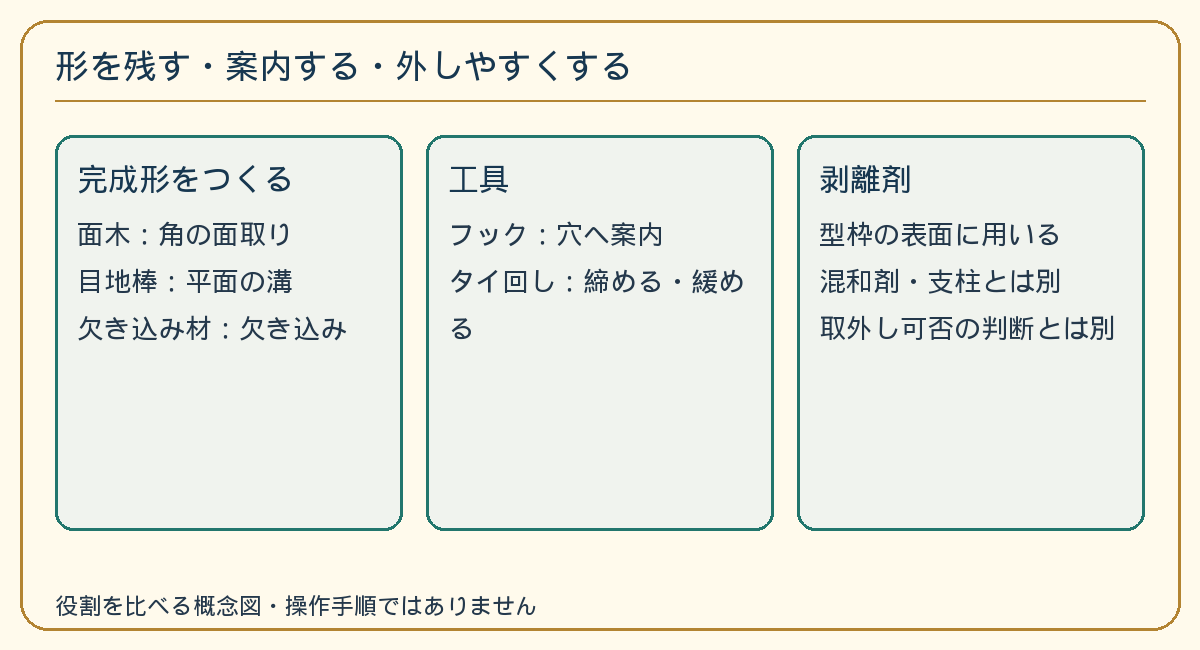
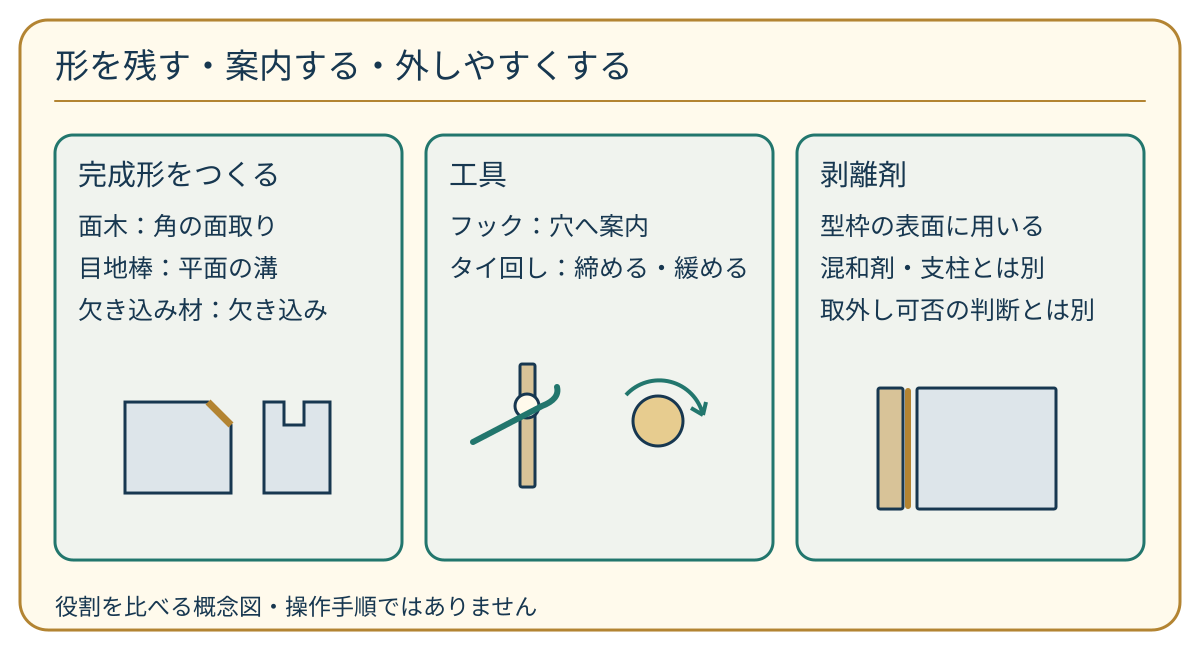
fix(kensetsu): illustrate formwork components and concrete pump roles

diff --git a/scripts/kensetsu-authoring/draw-royal-differential-group03.py b/scripts/kensetsu-authoring/draw-royal-differential-group03.py
@@ -1,0 +1,66 @@
+"""Original formwork/pump role geometry; not assembly, design or operating instructions."""
+from pathlib import Path
+helper = Path(__file__).with_name('draw-royal-differential-group01.py').read_text()
+exec(helper.split('# Clamp:')[0])
+OUT = ROOT / 'docs/ssw-workspace/kensetsu/royal-differential-20261107/group03'
+OUT.mkdir(parents=True, exist_ok=True)
+
+def cards(headings, rows):
+    body=''.join(rect(x,135,347,425) for x in [55,426,797])
+    for x,heading,lines in zip([78,449,820],headings,rows):
+        body+=text(x,185,heading,29)
+        for i,label in enumerate(lines):body+=text(x,235+i*42,label,25)
+    return body
+
+b=cards(['間隔・締付け','面と補強','荷重を受ける部分'],[
+ ['セパレーター：間隔','Pコン：端部','フォームタイ：締付け'],
+ ['せき板：接する面','桟木：補強・接続','パネル：板＋補強'],
+ ['端太角・トンボ端太','横向きに受ける','パイプサポート：支柱']])
+# Cross-section relationship: facing panels, spacing member, end parts/outside ties.
+b+=rect(143,385,18,118,'#BBA47B',NAVY,2)+rect(295,385,18,118,'#BBA47B',NAVY,2)
+b+=line(118,444,337,444,TEAL,7)
+b+='<path d="M161 431 L185 438 V450 L161 457 Z M295 431 L271 438 V450 L295 457 Z" fill="#E7CC8F" stroke="#B38432" stroke-width="3"/>'
+b+=line(127,421,127,467,GOLD,7)+line(327,421,327,467,GOLD,7)
+# An original oblique panel with reinforcement on its rear face.
+b+='<path d="M493 401 L650 382 L691 462 L534 484 Z" fill="#D8C398" stroke="#173750" stroke-width="3"/>'
+b+=line(524,408,557,468,GOLD,9)+line(573,402,606,461,GOLD,9)+line(621,395,654,454,GOLD,9)
+# Horizontal load receiving member and vertical support: relationship, no load sizing.
+b+=rect(864,390,216,22,'#BBA47B',NAVY,2)+line(970,416,970,510,'#769AA5',17)+line(947,410,993,410,NAVY,7)+line(941,515,999,515,NAVY,5)
+save('b9','型枠をつくる部材と、支える部材',b)
+
+b=cards(['完成形をつくる','工具','剥離剤'],[
+ ['面木：角の面取り','目地棒：平面の溝','欠き込み材：欠き込み'],
+ ['フック：穴へ案内','タイ回し：締める・緩める'],
+ ['型枠の表面に用いる','混和剤・支柱とは別','取外し可否の判断とは別']])
+# Finished workpiece corner and surface groove, not a cut/installation sequence.
+b+='<path d="M125 402 H208 L231 425 V493 H125 Z" fill="#DDE5EA" stroke="#173750" stroke-width="3"/><path d="M208 402 L231 425" stroke="#B38432" stroke-width="7"/>'
+b+='<path d="M264 402 H284 V425 H304 V402 H330 V493 H264 Z" fill="#DDE5EA" stroke="#173750" stroke-width="3"/>'
+# Guide-through-hole relation, distinct from a circular tool motion.
+b+=rect(520,364,15,123,'#D8C398',NAVY,2)+circle(527,406,12,'#FFFAEC')
+b+='<path d="M473 442 L542 406 Q560 399 557 387" fill="none" stroke="#22766D" stroke-width="6" stroke-linecap="round"/>'
+b+=circle(658,421,25,'#E7CC8F',NAVY,3)
+b+='<path d="M626 395 A45 45 0 0 1 703 415 M703 415 L691 408 M703 415 L706 402" fill="none" stroke="#22766D" stroke-width="4"/>'
+# Surface treatment: adjacent formwork and concrete with gold interface line.
+b+=rect(878,388,25,121,'#D8C398',NAVY,2)+rect(917,388,139,121,'#DDE5EA',NAVY,2)+line(908,391,908,506,GOLD,6)
+save('b10','形を残す・案内する・外しやすくする',b)
+
+b=cards(['受入れ・検知','動力・給油','経路・支持'],[
+ ['ホッパ：受入れ','スクリーン：開口の部品','レベル：量を検知'],
+ ['PTO：動力の取出し','油圧回路：発生・制御','給油装置：摩擦部へ'],
+ ['輸送管：材料の経路','ブーム：経路を届かせる','アウトリガ：車体安定']])
+# Hopper mouth/screen and side sensor are separated in the schematic.
+b+='<path d="M128 401 H330 L288 485 H170 Z" fill="#DDE5EA" stroke="#173750" stroke-width="3"/>'
+b+=line(128,401,330,401,TEAL,6)
+for x in [146,177,208,239,270,301]:b+=line(x,390,x,411,TEAL,3)
+b+=rect(323,434,24,22,'#E7CC8F',GOLD,3)+line(299,445,323,445,GOLD,3)
+# Different schematic destinations, not a claimed complete hydraulic circuit.
+b+=circle(516,437,28,'#DDE5EA')+circle(516,437,11,'#E7CC8F')
+b+=line(550,437,585,437,GOLD,4)+rect(595,403,82,66,'#E7CC8F',TEAL,7)
+b+='<path d="M604 438 Q620 411 636 438 T668 438" fill="none" stroke="#22766D" stroke-width="3"/>'
+b+=circle(697,490,11,'#E7CC8F',GOLD,3)
+# Pipe path and a separate structural arm/support. No outriggers/load dimensions.
+b+='<path d="M858 459 V397 H1058 V453" fill="none" stroke="#22766D" stroke-width="11" stroke-linecap="round" stroke-linejoin="round"/>'
+b+='<path d="M868 479 L945 425 L1035 425" fill="none" stroke="#B38432" stroke-width="7" stroke-linejoin="round"/>'
+b+=line(945,425,945,403,GOLD,3)+line(1035,425,1035,403,GOLD,3)
+b+=rect(862,480,180,22,'#DDE5EA',NAVY,3)+line(862,502,840,523,NAVY,5)+line(1042,502,1064,523,NAVY,5)+line(830,528,850,528,NAVY,4)+line(1054,528,1074,528,NAVY,4)
+save('b11','ポンプの部位を目的で整理する',b)
